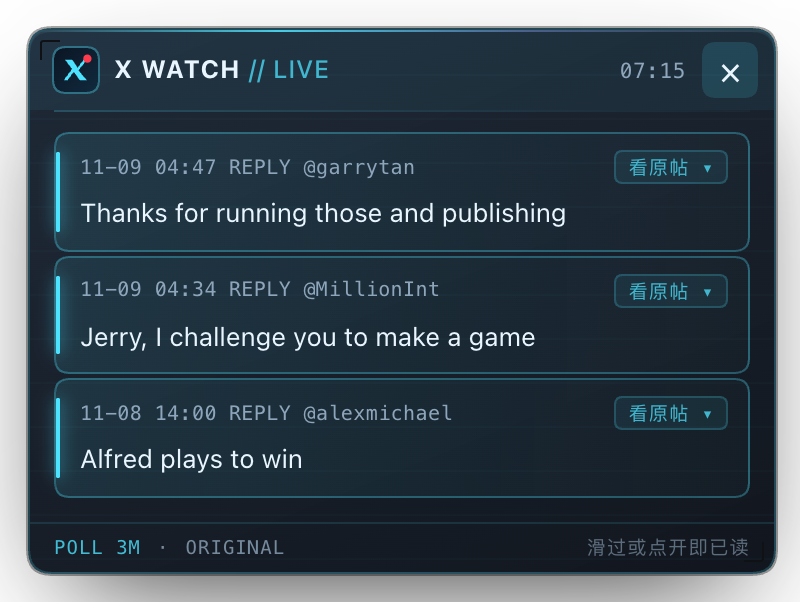
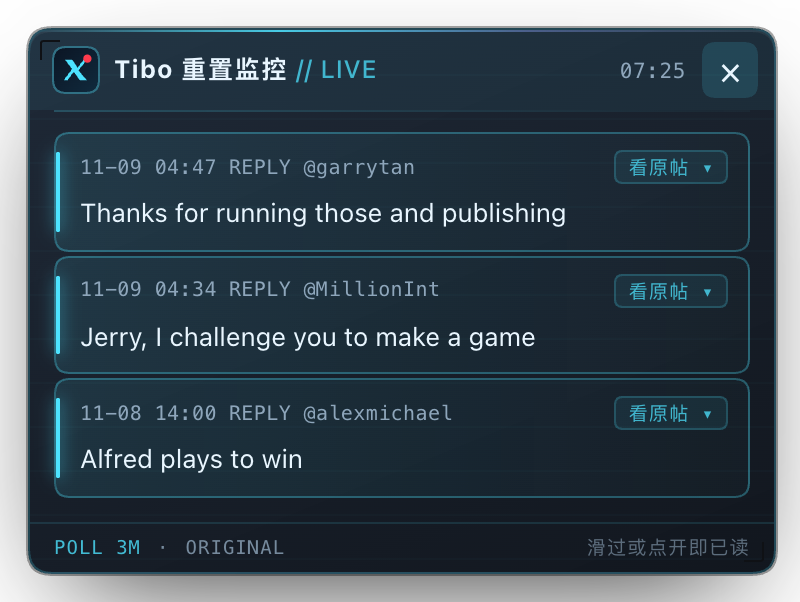
Rename to Tibo Reset Watch and fix the Tibo spelling

Changed region(s): [[0.125, 0.0897, 0.4688, 0.1495], [0.8125, 0.0897, 0.8438, 0.1196]]

diff --git a/index.js b/index.js
@@ -1,14 +1,14 @@
 /**
- * Host half of X Watch.
+ * Host half of Tibo Reset Watch.
  *
  *  - polls configured X/Twitter sources on a timer (no LLM, no agent turn)
  *  - fetches the post a reply answers (fxtwitter, keyless) so the card can show it
  *  - translates text through the Host translation service when one is available
- *  - publishes everything on GET /x-watch/feed for the Client overlay
+ *  - publishes everything on GET /tibo-reset-watch/feed for the Client overlay
  *
  * Sources are pluggable. Out of the box one `tiboreset` preset is enabled
  * (a public text mirror of @thsottiaux's timeline); any number of plain JSON
- * endpoints can be added in ~/.dsh/x-watch/config.json.
+ * endpoints can be added in ~/.dsh/tibo-reset-watch/config.json.
  */
 import { mkdir, readFile, writeFile } from 'node:fs/promises'
 import { homedir } from 'node:os'
@@ -16,10 +16,10 @@ import { join } from 'node:path'
 
 export const inject = ['webServer']
 
-const STATE_DIR = join(homedir(), '.dsh', 'x-watch')
+const STATE_DIR = join(homedir(), '.dsh', 'tibo-reset-watch')
 const STATE_FILE = join(STATE_DIR, 'state.json')
 const CONFIG_FILE = join(STATE_DIR, 'config.json')
-const FEED_PATH = '/x-watch/feed'
+const FEED_PATH = '/tibo-reset-watch/feed'
 const USER_AGENT =
   'Mozilla/5.0 (Macintosh; Intel Mac OS X 10_15_7) AppleWebKit/537.36 (KHTML, like Gecko) Chrome/125.0 Safari/537.36'
 const FX_API = 'https://api.fxtwitter.com/status/'
@@ -280,13 +280,13 @@ export function apply(ctx) {
       config = { ...DEFAULT_CONFIG, ...parsed }
       if (!Array.isArray(config.accounts) || config.accounts.length === 0) config.accounts = DEFAULT_CONFIG.accounts
     } catch (error) {
-      if (error?.code !== 'ENOENT') ctx.logger?.warn?.('x-watch: config unreadable, using defaults: %s', error)
+      if (error?.code !== 'ENOENT') ctx.logger?.warn?.('tibo-reset-watch: config unreadable, using defaults: %s', error)
       config = { ...DEFAULT_CONFIG }
       try {
         await mkdir(STATE_DIR, { recursive: true })
         await writeFile(CONFIG_FILE, JSON.stringify(DEFAULT_CONFIG, null, 2), 'utf8')
       } catch (writeError) {
-        ctx.logger?.warn?.('x-watch: config write failed: %s', writeError)
+        ctx.logger?.warn?.('tibo-reset-watch: config write failed: %s', writeError)
       }
     }
   }
@@ -300,7 +300,7 @@ export function apply(ctx) {
         'utf8',
       )
     } catch (error) {
-      ctx.logger?.warn?.('x-watch: persist failed: %o', error)
+      ctx.logger?.warn?.('tibo-reset-watch: persist failed: %o', error)
     }
   }
 
@@ -312,7 +312,7 @@ export function apply(ctx) {
       if (saved?.cursors && typeof saved.cursors === 'object') state.cursors = saved.cursors
       if (typeof saved?.updatedAt === 'string') state.updatedAt = saved.updatedAt
     } catch (error) {
-      if (error?.code !== 'ENOENT') ctx.logger?.warn?.('x-watch: restore failed: %o', error)
+      if (error?.code !== 'ENOENT') ctx.logger?.warn?.('tibo-reset-watch: restore failed: %o', error)
     }
   }
 
@@ -322,7 +322,7 @@ export function apply(ctx) {
     const translator = typeof ctx.get === 'function' ? ctx.get('translator') : undefined
     if (!translator || typeof translator.resolve !== 'function' || typeof translator.translate !== 'function') {
       translatorUnavailable = true
-      ctx.logger?.info?.('x-watch: no Host translation service, showing the original text')
+      ctx.logger?.info?.('tibo-reset-watch: no Host translation service, showing the original text')
       return null
     }
     const clipped = String(text).slice(0, 2000)
@@ -338,7 +338,7 @@ export function apply(ctx) {
         return null
       } catch (error) {
         if (attempt === 1) {
-          ctx.logger?.warn?.('x-watch: translate failed: %s', error?.message || error)
+          ctx.logger?.warn?.('tibo-reset-watch: translate failed: %s', error?.message || error)
           return null
         }
       }
@@ -436,7 +436,7 @@ export function apply(ctx) {
         await persist()
       } catch (error) {
         state.lastError = String(error?.message || error)
-        ctx.logger?.warn?.('x-watch: poll failed: %s', state.lastError)
+        ctx.logger?.warn?.('tibo-reset-watch: poll failed: %s', state.lastError)
       } finally {
         state.lastPollAt = new Date().toISOString()
         loading = null
@@ -445,7 +445,7 @@ export function apply(ctx) {
     return loading
   }
 
-  ctx.logger?.info?.('x-watch: applying, webServer=%s', typeof ctx.webServer?.register === 'function' ? 'yes' : 'no')
+  ctx.logger?.info?.('tibo-reset-watch: applying, webServer=%s', typeof ctx.webServer?.register === 'function' ? 'yes' : 'no')
 
   ctx.effect(
     () => {
@@ -463,14 +463,14 @@ export function apply(ctx) {
             })
             response.end(body)
           } catch (error) {
-            ctx.logger?.warn?.('x-watch: feed failed: %s', error?.stack || error)
+            ctx.logger?.warn?.('tibo-reset-watch: feed failed: %s', error?.stack || error)
             response.writeHead(500, { 'content-type': 'application/json; charset=utf-8' })
             response.end(JSON.stringify({ error: String(error?.message || error) }))
           }
         },
       })
     },
-    'x-watch-feed-route',
+    'tibo-reset-watch-feed-route',
   )
 
   ctx.effect(() => {
@@ -493,5 +493,5 @@ export function apply(ctx) {
       disposed = true
       if (timer) clearInterval(timer)
     }
-  }, 'x-watch-poller')
+  }, 'tibo-reset-watch-poller')
 }

diff --git a/client.js b/client.js
@@ -1,18 +1,18 @@
 /**
- * Client half of X Watch.
+ * Client half of Tibo Reset Watch.
  *
  * Top-right HUD: a round badge on the window edge when idle, a glass card when
  * there is news. Every row shows what the account said; clicking a row reveals
  * the post it replied to. Hovering or clicking a row marks it read.
  */
 window.__ModuleLoader__.load({
-  id: 'dsh-x-watch',
+  id: 'dsh-tibo-reset-watch',
   factory(require) {
     const React = require('react');
     const h = React.createElement;
 
-    const FEED_URL = '/x-watch/feed';
-    const READ_KEY = 'dsh-x-watch-read-ids';
+    const FEED_URL = '/tibo-reset-watch/feed';
+    const READ_KEY = 'dsh-tibo-reset-watch-read-ids';
     const VISIBLE_ITEMS = 8;
     const AUTO_COLLAPSE_MS = 16000;
     const CLIENT_POLL_MS = 25000;
@@ -258,14 +258,14 @@ window.__ModuleLoader__.load({
       if (!feed && failed) return null;
 
       const cardTop = feed && feed.meta && Number(feed.meta.cardTop) ? Number(feed.meta.cardTop) : 74;
-      const title = (feed && feed.meta && feed.meta.title) || 'X WATCH';
+      const title = (feed && feed.meta && feed.meta.title) || 'Tibo 重置监控';
       const pollLabel = feed && feed.intervalMs ? Math.max(1, Math.round(feed.intervalMs / 60000)) + 'M' : '3M';
 
       const count = unread.length;
       const syncText = feed && feed.updatedAt ? clockOf(feed.updatedAt) : failed ? 'OFFLINE' : 'SYNC';
 
       if (!open) {
-        const label = count > 0 ? 'X Watch · ' + count + ' 条新动态' : 'X Watch';
+        const label = count > 0 ? 'Tibo 重置监控 · ' + count + ' 条新动态' : 'Tibo 重置监控';
         return h(
           React.Fragment,
           null,
@@ -311,7 +311,7 @@ window.__ModuleLoader__.load({
             {
               className: 'tw-card',
               role: 'dialog',
-              'aria-label': 'X Watch 动态',
+              'aria-label': 'Tibo 重置监控 动态',
               onMouseEnter: function () {
                 hoverRef.current = true;
                 if (collapseRef.current) {
@@ -460,7 +460,7 @@ window.__ModuleLoader__.load({
           return ctx.slots.register(
             {
               name: 'shell.overlay',
-              id: 'x-watch',
+              id: 'tibo-reset-watch',
               order: 200,
             },
             TiboWidget,

diff --git a/README.md b/README.md
@@ -1,4 +1,4 @@
-# dsh-x-watch
+# dsh-tibo-reset-watch
 
 A corner card inside DeepSeek Harness that shows what a watched X account just said — translated into Chinese.
 
@@ -9,7 +9,7 @@ Ships with a **Tibo preset** (`@thsottiaux`): the Codex usage-limit rescues usua
 ## Install
 
 ```sh
-dsh plugin add dsh-x-watch
+dsh plugin add dsh-tibo-reset-watch
 ```
 
 Restart DeepSeek Harness if the badge does not appear within a minute.
@@ -24,7 +24,7 @@ Restart DeepSeek Harness if the badge does not appear within a minute.
 
 ## Configuration
 
-The first run writes `~/.dsh/x-watch/config.json`:
+The first run writes `~/.dsh/tibo-reset-watch/config.json`:
 
 ```json
 {
@@ -76,13 +76,13 @@ The built-in preset reads **tiboreset.com**, a third-party public text mirror of
 - it exposes text only — images, videos and reposts are not shown;
 - it can change or go away at any time; when it does, the card shows `OFFLINE` and the original rows stay readable.
 
-Text and links belong to their authors. This plugin is a personal reader: it stores rows locally under `~/.dsh/x-watch/` and sends nothing anywhere except the fetch of the source URL, the optional quote lookup and the translation request.
+Text and links belong to their authors. This plugin is a personal reader: it stores rows locally under `~/.dsh/tibo-reset-watch/` and sends nothing anywhere except the fetch of the source URL, the optional quote lookup and the translation request.
 
 ## Files
 
 | Path | Purpose |
 | --- | --- |
-| `index.js` | Host half: polling, parsing, translation, `/x-watch/feed` route, state under `~/.dsh/x-watch/` |
+| `index.js` | Host half: polling, parsing, translation, `/tibo-reset-watch/feed` route, state under `~/.dsh/tibo-reset-watch/` |
 | `client.js` | Client half: the card, the badge and read state in `localStorage` |
 | `cordis.patch.yml` | Bundle patch that inserts the plugin |
 | `locale/*.json` | Plugin title and description |

diff --git a/README.zh.md b/README.zh.md
@@ -1,4 +1,4 @@
-# dsh-x-watch
+# dsh-tibo-reset-watch
 
 DeepSeek Harness 右上角的账号动态卡片：关注的 X 账号一有新帖或回复就弹出，配中文译文。
 
@@ -9,7 +9,7 @@ DeepSeek Harness 右上角的账号动态卡片：关注的 X 账号一有新帖
 ## 安装
 
 ```sh
-dsh plugin add dsh-x-watch
+dsh plugin add dsh-tibo-reset-watch
 ```
 
 一分钟内没看到角标就重启一次 DeepSeek Harness。
@@ -24,7 +24,7 @@ dsh plugin add dsh-x-watch
 
 ## 配置
 
-首次运行会生成 `~/.dsh/x-watch/config.json`：
+首次运行会生成 `~/.dsh/tibo-reset-watch/config.json`：
 
 ```json
 {
@@ -76,13 +76,13 @@ dsh plugin add dsh-x-watch
 - 只有文字，图片、视频、转推不显示；
 - 随时可能改版或消失。真挂了卡片会显示 `OFFLINE`，已经抓到的内容仍可阅读。
 
-文字与链接归原作者所有。本插件只是一个本地阅读器：数据存在 `~/.dsh/x-watch/`，除了抓数据源、可选的原帖查询和翻译请求之外不向别处发送任何内容。
+文字与链接归原作者所有。本插件只是一个本地阅读器：数据存在 `~/.dsh/tibo-reset-watch/`，除了抓数据源、可选的原帖查询和翻译请求之外不向别处发送任何内容。
 
 ## 文件
 
 | 路径 | 作用 |
 | --- | --- |
-| `index.js` | Host：轮询、解析、翻译、`/x-watch/feed` 路由、状态存 `~/.dsh/x-watch/` |
+| `index.js` | Host：轮询、解析、翻译、`/tibo-reset-watch/feed` 路由、状态存 `~/.dsh/tibo-reset-watch/` |
 | `client.js` | Client：卡片、角标、`localStorage` 里的已读状态 |
 | `cordis.patch.yml` | 插入插件的 bundle patch |
 | `locale/*.json` | 插件标题与描述 |
